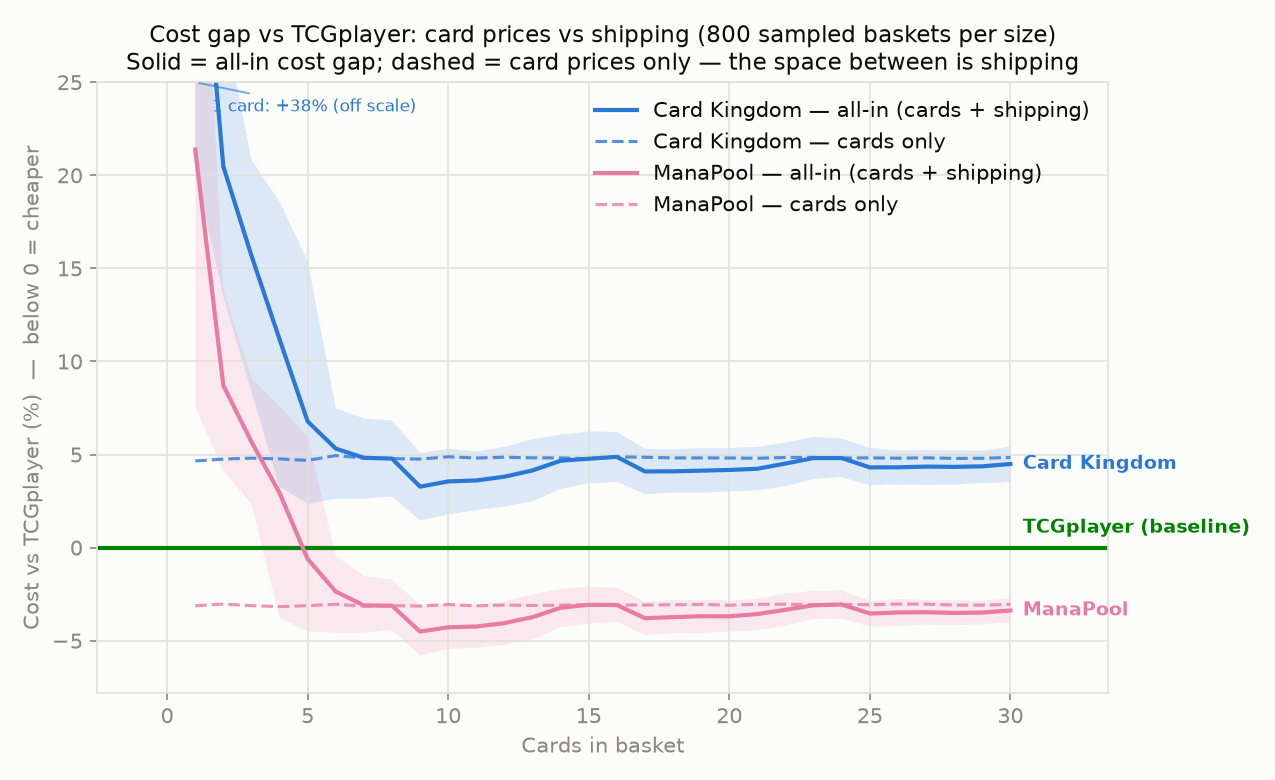
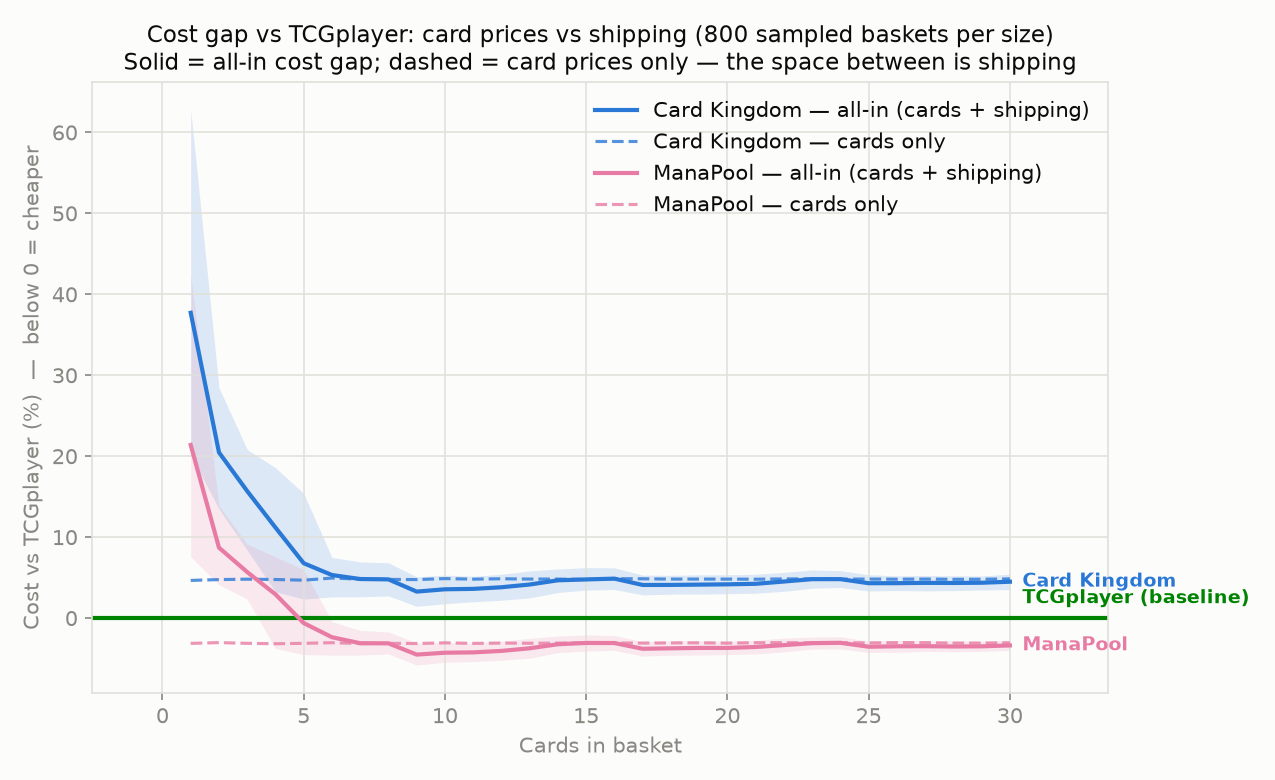
Restore natural y-scale on MC chart
Remove the +25% y-axis cap and off-scale annotation; the full range of
the 1-card shipping spike is shown in scale.

Claude-Session: https://claude.ai/code/session_01JfSvnLRd6xKJhXvNadj6Qu

diff --git a/mtg_pricebot/plot.py b/mtg_pricebot/plot.py
@@ -72,9 +72,6 @@ def plot_pct_diff(curves: pd.DataFrame, crossovers: list[dict], out_path: Path,
     return out_path
 
 
-Y_CAP = 25  # percent; the 1-card shipping spike would otherwise crush the scale
-
-
 def plot_mc_band(mc: pd.DataFrame, out_path: Path, n_samples: int,
                  baseline: str = "tcgplayer") -> Path:
     """Mean vendor gap vs baseline with a 10th-90th percentile band."""
@@ -101,22 +98,6 @@ def plot_mc_band(mc: pd.DataFrame, out_path: Path, n_samples: int,
         ax.annotate(LABELS[v], (x.iloc[-1], mc[f"{v}_gap_mean"].iloc[-1]),
                     xytext=(6, 0), textcoords="offset points",
                     color=COLORS[v], fontsize=9, fontweight="bold", va="center")
-
-    # Cap the y-scale so the tiny-order shipping spike can't crush the
-    # few-percent region where the real story lives; note what ran off.
-    bottom = min(mc[f"{v}_gap_p10"].min() for v in VENDORS if v != baseline) - 2
-    peak = max(mc[f"{v}_gap_mean"].max() for v in VENDORS if v != baseline)
-    if peak > Y_CAP:
-        ax.set_ylim(bottom, Y_CAP)
-        for v in VENDORS:
-            if v == baseline or mc[f"{v}_gap_mean"].max() <= Y_CAP:
-                continue
-            i = mc[f"{v}_gap_mean"].idxmax()
-            ax.annotate(f'{int(mc["n_cards"][i])} card: '
-                        f'{mc[f"{v}_gap_mean"][i]:+.0f}% (off scale)',
-                        (mc["n_cards"][i], Y_CAP), xytext=(8, -14),
-                        textcoords="offset points", color=COLORS[v], fontsize=8,
-                        arrowprops={"arrowstyle": "-", "color": COLORS[v], "alpha": 0.6})
 
     ax.set_xlabel("Cards in basket", color=MUTED)
     ax.set_ylabel(f"Cost vs {LABELS[baseline]} (%)  —  below 0 = cheaper", color=MUTED)
